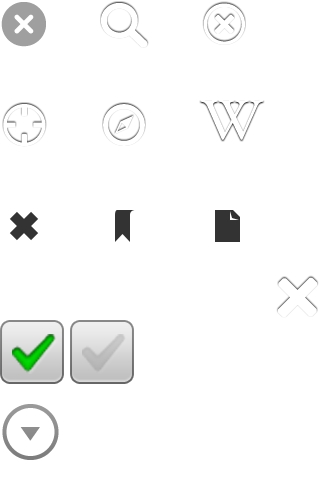
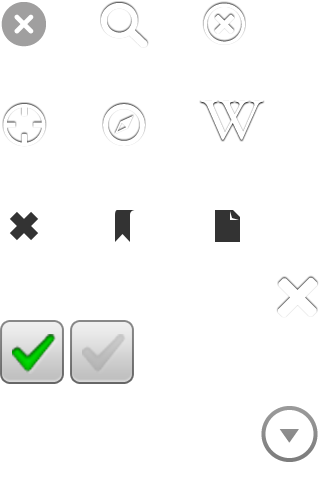
Tap area for the selects in settings dialog much bigger
Thanks to Jon for the CSS concept work :)

Changed region(s): [[0.0, 0.8438, 0.1875, 0.9688], [0.8125, 0.8438, 0.9688, 0.9688], [0.9688, 0.875, 1.0, 0.9375]]

diff --git a/assets/www/app.css b/assets/www/app.css
@@ -340,7 +340,7 @@ header {
 #settingsList .item {
 	list-style: none;
 	border-bottom:1px solid #ddd;
-	padding: 12px 60px 12px 16px;
+	padding: 12px 16px 12px 16px;
 }
 #settingsList .item label {
 	font-size:16px;
@@ -366,9 +366,10 @@ header {
 }
 
 #settingsList .item select {
-	background-position: 0 -200px;
-	padding-left: 32px;
+	background-position: 100% -200px;
 	top: 22px;
+	font-size: 14px;
+	padding-left: 0px;
 }
 
 #settingsList .item select:focus {
